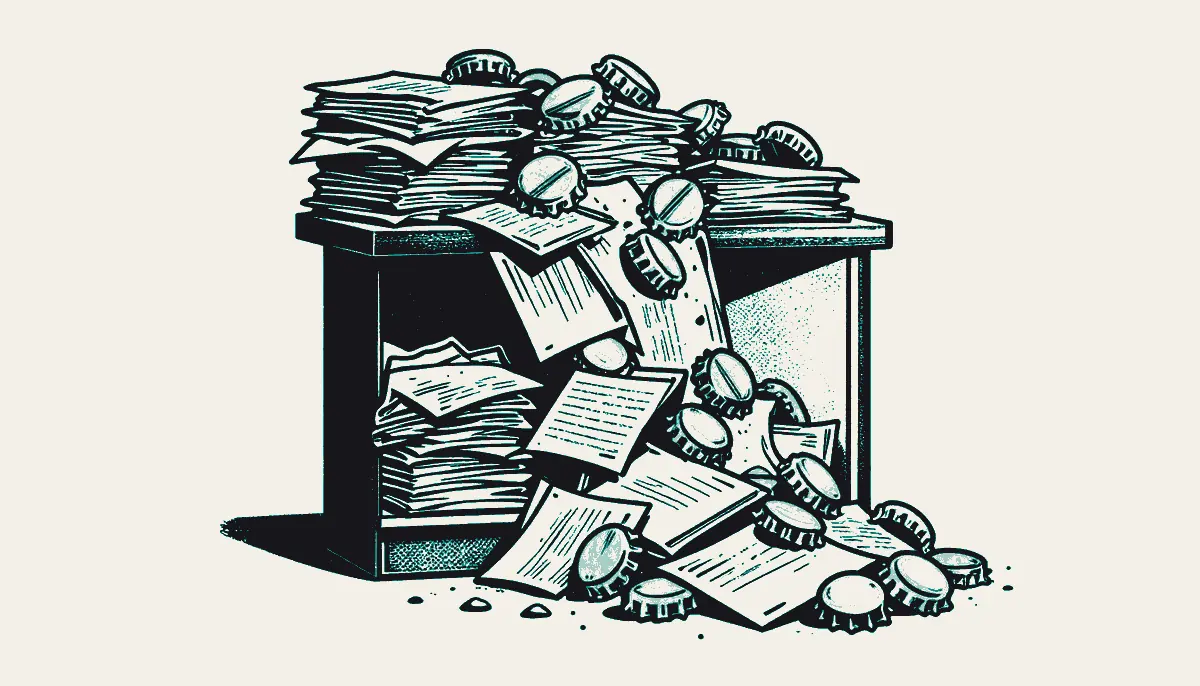
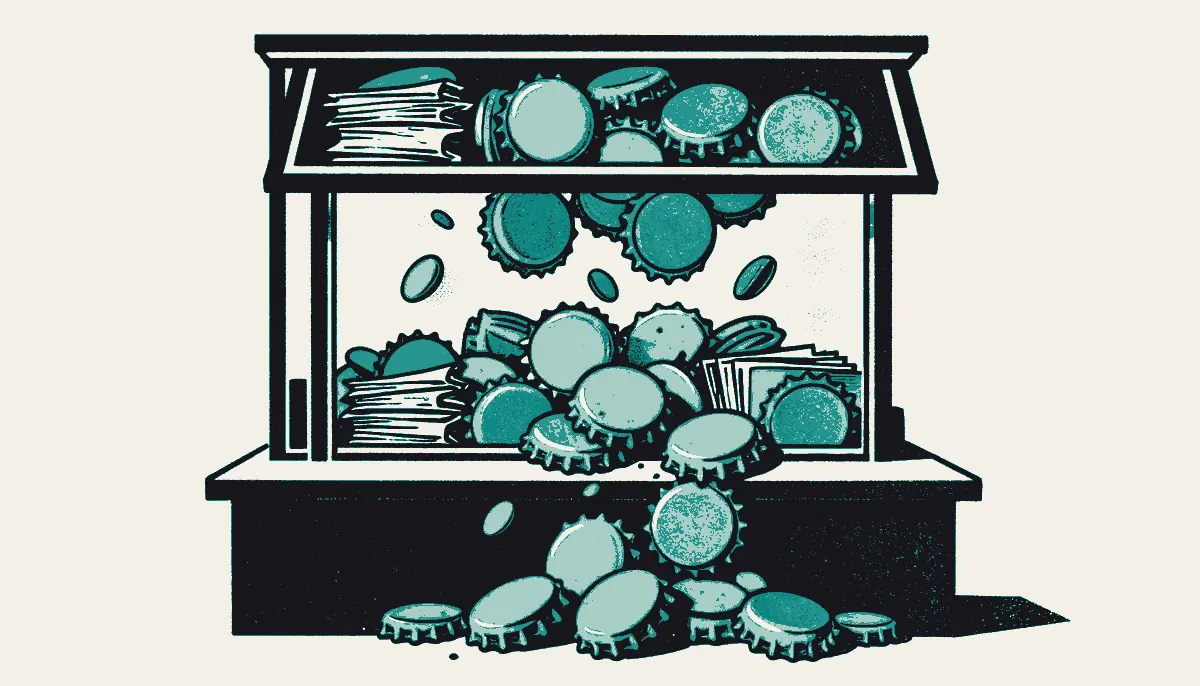
Illustrations S3 refaites : souvenirs sans chien, capsules en sarcelle franche

diff --git a/tools/images/budget.md b/tools/images/budget.md
@@ -4,3 +4,4 @@
 |---|---|---|---|---|
 | 2026-09-24 | test style (mine-puce) | 1 | 1 | 0,003 |
 | 2026-09-24 | lot complet 25 clés (calibrage, S1, S2, S3, rôles, accueil) | 54 | 55 | 0,165 |
+| 2026-09-24 | v2 : s3/regarder-nos-souvenirs, s3/dedommager-brasseurs | 2 | 57 | 0,171 |
